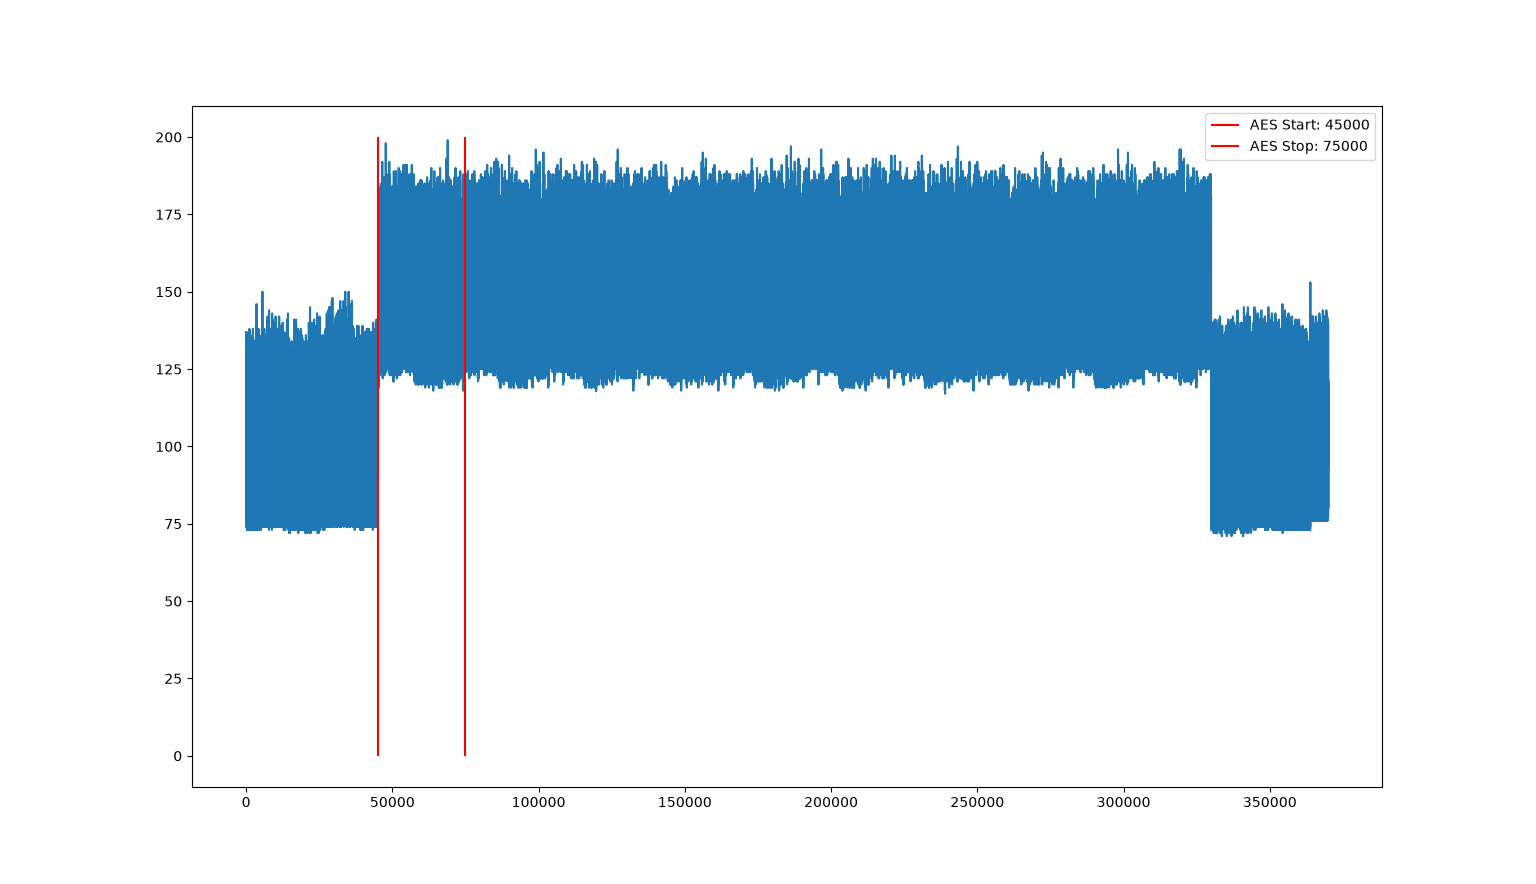
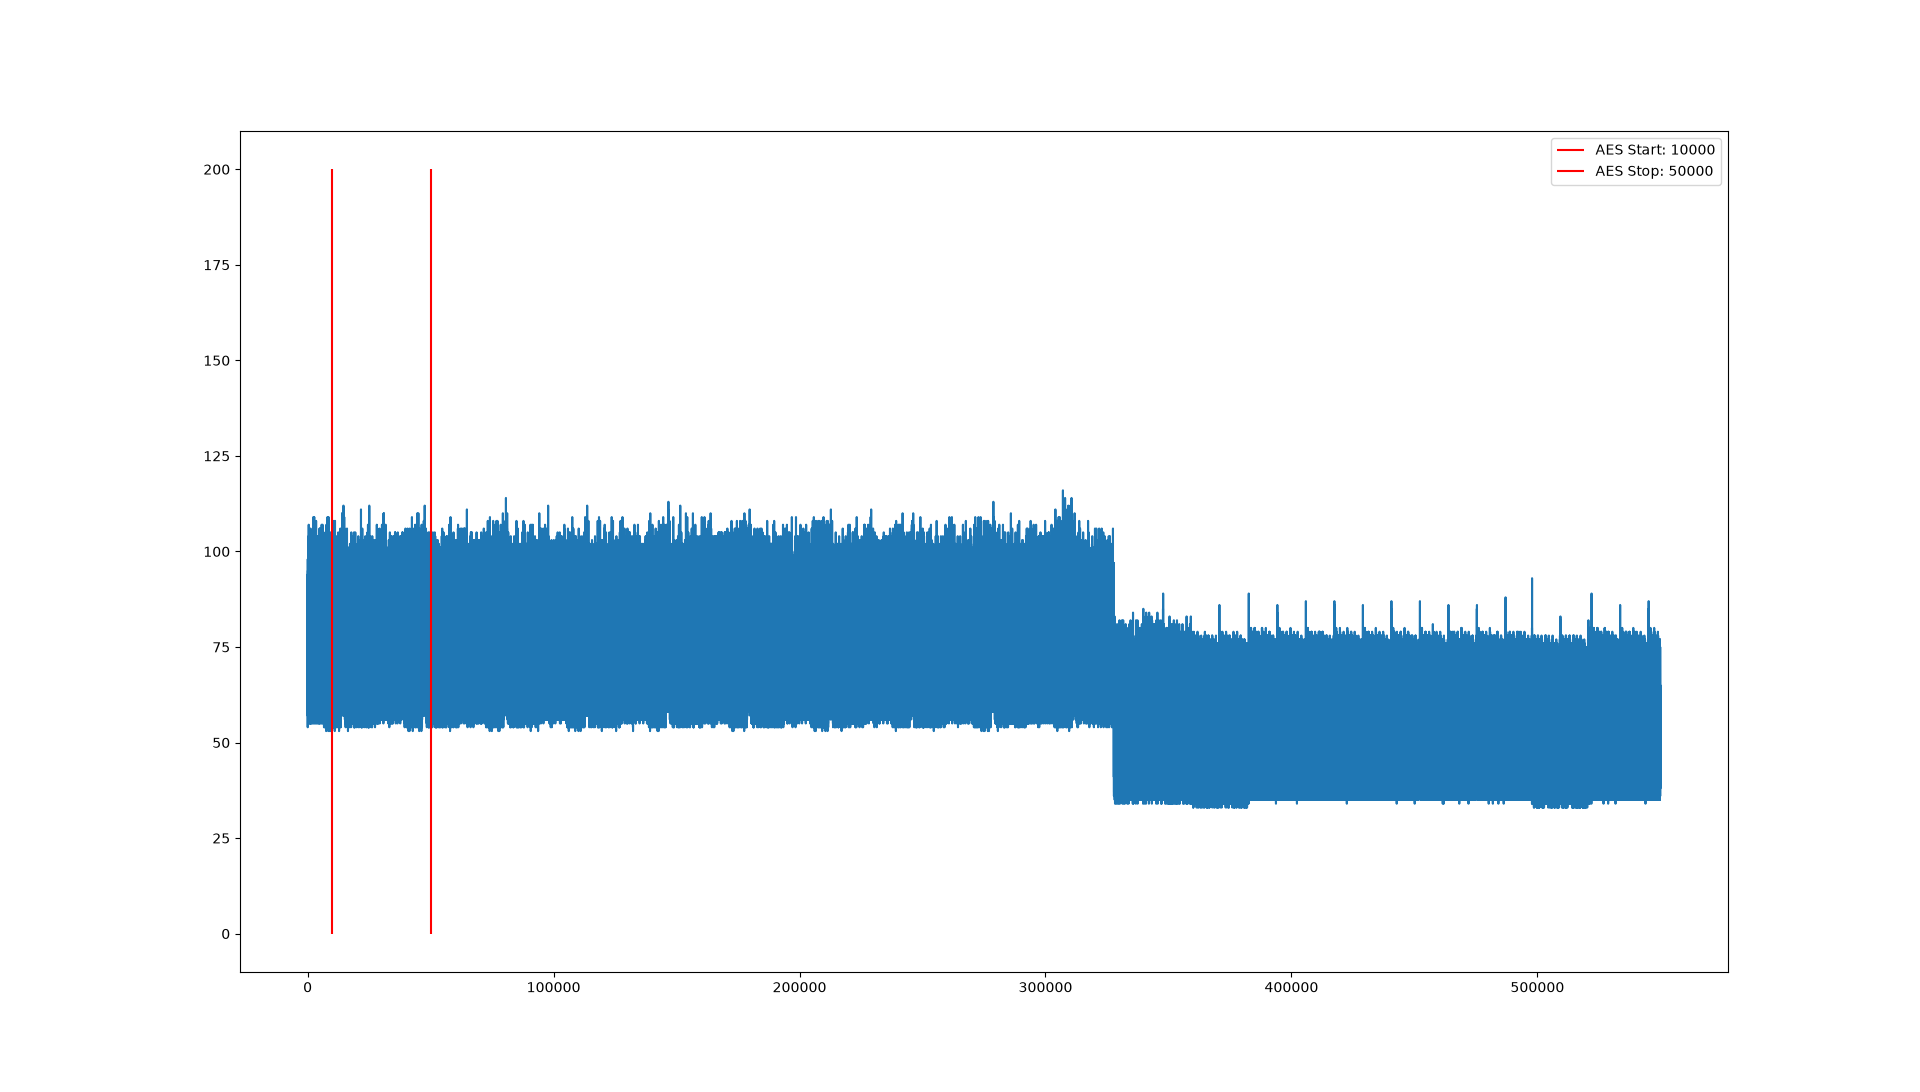
modified version as previous used wrong time region for round 1 assumptions

diff --git a/DPA-template.py b/DPA-template.py
@@ -9,12 +9,15 @@ def myin(filename):
         data = f.readlines()[:-1]
     return tohex(np.array([line[:-2].split(" ") for line in data]))   
 
+def myout(filename, data):
+    with open(filename, 'w') as f:
+        f.write(f"{data}\n")
+
 
 #TODO:
 #Select which files to open. Filenames defined at the top.
-traces = np.load(r"traces-00112233445566778899aabbccddeeff.npy")
-plaintexts = myin(r"plaintext-00112233445566778899aabbccddeeff.txt")
-
+traces = np.load(r"traces-unknown_key.npy")
+plaintexts = myin(r"plaintext-unknown_key.txt")
 
 
 Sbox = np.array([
@@ -37,21 +40,6 @@ Sbox = np.array([
             ])
 
 
- 
-
-def myload2(fname,trlen=370000,start=0,len=370000,n=200):
-    myfile = open(fname, 'rb')
-    traces = np.zeros((n, len))
-    myfile.seek(start)
-    for i in range(n):      
-        if len+start > trlen:
-            t = [int.from_bytes(myfile.read(1), byteorder='big') for i in range(len-start)]
-        else:
-            t = [int.from_bytes(myfile.read(1), byteorder='big') for i in range(len)]
-        traces[i] = t
-    myfile.close()
-    return traces
-
 def mycorr(x,y):
     xr,xc = x.shape
     yr,yc = y.shape
@@ -67,13 +55,14 @@ def mycorr(x,y):
     return C
 
 
-FIRST_ROUND_START      = 45000
-FIRST_ROUND_STOP       = 75000
+FIRST_ROUND_START      = 0                      # 10000
+FIRST_ROUND_STOP       = np.shape(traces)[1]    # 50000
 #plt.plot(np.arange(np.shape(traces)[1]), traces[-1,:])
 #plt.vlines(FIRST_ROUND_START, ymin=0, ymax=200, colors='r', label=f"AES Start: {FIRST_ROUND_START}")
 #plt.vlines(FIRST_ROUND_STOP, ymin=0, ymax=200, colors='r', label=f"AES Stop: {FIRST_ROUND_STOP}")
 #plt.legend()
 #plt.show()
+#exit()
 
 best_corr = 0
 full_key = ""
@@ -105,12 +94,15 @@ for BYTE in range(16):
         max_corr = np.max(corr)
         if max_corr > best_corr:
             best_corr = max_corr
-            best_t = np.argmax(corr)
+            best_time = np.argmax(corr)
             best_key = key
     # Construct full key in 2 digits, hexadecimal format, byte by byte
     full_key += format(best_key,"02x")
-    print("Best Key: ", format(best_key,"02x"), "Best time: ", best_t, "Highest corr: ", best_corr)
+    print("Best Key: ", format(best_key,"02x"), "Best time: ", best_time, "Highest corr: ", best_corr)
 
     # Reset tracker values between each byte
-    best_corr, best_t, best_k = 0,0,0
-print("Full results: ", full_key)
+    best_corr, best_time, best_key = 0,0,0
+
+key_string = bytes.fromhex(full_key).hex(" ")
+print(f"Recovered key:\t{key_string}")
+myout("recovered_key-unknown.txt", f"{key_string}\n")

diff --git a/AES_encryption.py b/AES_encryption.py
@@ -1,0 +1,57 @@
+from pyaes import AESModeOfOperationECB
+import numpy as np
+
+tohex = np.vectorize(lambda x: int(x, 16))
+
+# 05 de ad be ef 42 00 68 61 63 6b 65 64 6b 65 79
+
+
+def myin(filename):
+    with open(filename, 'r') as f:
+        rows = [line.split() for line in f if line.strip()]
+    return np.array([[int(x, 16) for x in row] for row in rows], dtype=np.uint8)
+
+plaintext = myin(r"plaintext-unknown_key.txt")
+with open("recovered_key-unknown.txt", 'r') as f:
+    recovered_key = bytes.fromhex(f.readline())
+
+
+aes = AESModeOfOperationECB(recovered_key)
+
+# compair encrypted_cipher with provided cipher text data
+ciphertext = myin(r"ciphertext-unknown_key.txt")
+i = 0
+j = 0
+len_pt = len(plaintext)
+for i in range(0, len_pt, 1):
+    plaintext_block = plaintext[i].tobytes()
+    ciphertext_block = ciphertext[i].tobytes()
+
+    encrypted_cipher = aes.encrypt(plaintext_block)
+
+    if encrypted_cipher != ciphertext_block:
+        print(f"\
+            idx {i} did not match:\n\
+            Derived Cipher:\t{encrypted_cipher.hex(" ")}\n\
+            Provided Cipher:\t{ciphertext_block.hex(" ")}\
+        ") 
+    else:
+        i+=1
+    recovered_plaintext = aes.decrypt(ciphertext_block)
+
+    if recovered_plaintext != plaintext_block:
+        print(f"\
+            idx {i} did not match:\n\
+            Derived Plaintext:\t{recovered_plaintext.hex(" ")}\n\
+            Provided Plaintext:\t{plaintext_block.hex(" ")}\
+        ")
+    else:
+        j+=1
+
+
+result = (i==len_pt & j==len_pt)
+if result:
+    print("Sucess")
+else:
+    print("Some mismatch")
+
